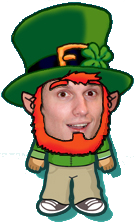
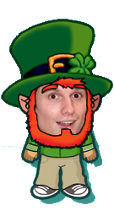
Changed the system for choosing a specific (or random) person, with thumbnails.

diff --git a/js/holder.min.js b/js/holder.min.js
@@ -1,0 +1,12 @@
+/*!
+
+Holder - client side image placeholders
+Version 2.5.2+2mg3u
+© 2015 Ivan Malopinsky - http://imsky.co
+
+Site:     http://holderjs.com
+Issues:   https://github.com/imsky/holder/issues
+License:  http://opensource.org/licenses/MIT
+
+*/
[1 lines of base64/hex data omitted]

diff --git a/functions-admin.inc.php b/functions-admin.inc.php
@@ -199,7 +199,7 @@ function make_status_change_menu() {
 
 // Gets a list of figures with 'fig' or 'special' in the name.
 // DONE
-function get_special_figure_list() {
+/*function get_special_figure_list() {
 
     global $CFG;
 
@@ -233,7 +233,74 @@ function get_special_figure_list() {
         return '<p class="error">Couldn\'t find any images.</p>' . "\n";
     }
 
+}*/
+
+
+// Gets a list of figures with 'aaa', 'fig' or 'special' in the name.
+// TODO: This is better than it was, but it needs fairly serious refactoring for reasons of sanity.
+function get_figures_thumbnails() {
+
+  global $CFG;
+
+  // Scan the folder for appropriate images; store filenames and make a user-friendly name also.
+  $figures = array(
+    'filename'  => array(),
+    'name'      => array()
+  );
+
+  if ( $fh = opendir( $CFG['dir']['ppl'] ) ) {
+    while ( false !== ( $entry = readdir( $fh ) ) ) {
+      if ( $entry != '.' && $entry != '..' && ( substr( $entry, 0, 3 ) == 'aaa' || substr( $entry, 0, 3 ) == 'fig' || substr( $entry, 0, 7 ) == 'special' ) ) {
+        $figures['filename'][] = $entry;
+      }
+    }
+    closedir( $fh );
+  }
+
+  if ( $figures ) {
+
+    sort( $figures['filename'] );
+
+    for( $j = 0; $j < count( $figures['filename'] ); $j++ ) {
+      $tmp = $figures['filename'][$j];
+      $tmp = ucfirst( str_replace( array( 'aaa-', 'fig-', 'special-', '.jpg', '.jpeg', '.png' ), '', $tmp ) );
+      $tmp = ucfirst( str_replace( array( '-alt' ), ' 2', $tmp ) );
+      $figures['name'][$j] = $tmp;
+    }
+
+    $build = '';
+    for( $j = 0; $j < count( $figures['filename'] ); $j++ ) {
+
+      $build .= '      <div class="col-xs-4 col-md-2">' . "\n";
+      $build .= '        <div class="thumbnail">' . "\n";
+      //$build .= '          <img data-src="holder.js/100x100">' . "\n";
+      $build .= '          <div class="caption">' . "\n";
+      $build .= '            <h4 class="text-center">' . $figures['name'][$j] . '</h4>' . "\n";
+      $build .= '          </div>' . "\n";
+      $build .= '          <img class="img-thumbnail" src="' . $CFG['dir']['ppl'] . $figures['filename'][$j] . '" >' . "\n";
+      $build .= '          <div class="caption">' . "\n";
+      
+      if ( $figures['filename'][$j] == get_config( 'specific_fig' ) ) {
+        $build .= '            <p><a class="btn btn-success btn-block" disabled="disabled" role="button">Chosen!</a></p>' . "\n";
+      } else {
+        $build .= '            <p><a href="' . $_SERVER["PHP_SELF"] . '?action=figure_change&figure_filename=' . $figures['filename'][$j] . '&figure_name=' . $figures['name'][$j] . '" class="btn btn-info btn-block" role="button">Select ' . $figures['name'][$j] . '</a></p>' . "\n";
+      }
+
+      $build .= '          </div>' . "\n";
+      $build .= '        </div>' . "\n";
+      $build .= '      </div>' . "\n";
+
+    }
+
+    return $build;
+
+  } else {
+    adminlog( 'img|err|' . $CFG['dir']['ppl'] );
+    return '<div class="col-md-12"><p class="error">Couldn\'t find any images.</p></div>';
+  }
+
 }
+
 
 
 

diff --git a/manage.php b/manage.php
@@ -124,6 +124,17 @@ if ( isset( $_GET['action'] ) && $_GET['action'] == 'rssfeed_preset' && isset( $
   exit(0);
 }
 
+// Updating the random / specific figure.
+if ( isset( $_GET['action'] ) && $_GET['action'] == 'figure_change' && isset( $_GET['figure_filename'] ) && !empty( $_GET['figure_filename'] ) && isset( $_GET['figure_name'] ) && !empty( $_GET['figure_name'] ) ) {
+  if ( set_config( 'specific_fig', $_GET['figure_filename'] ) ) {
+    $_SESSION['alerts'] = array( 'success' => 'Figure &ldquo;' . $_GET['figure_name'] . '&rdquo; was updated successfully.' );
+  } else {
+    $_SESSION['alerts'] = array( 'danger' => 'Figure &ldquo;' . $_GET['figure_name'] . '&rdquo; (' . $_GET['figure_filename'] . ') was not updated for some reason.' );
+  }
+  header( 'location: ' . $_SERVER["PHP_SELF"] );
+  exit(0);
+}
+
 // Logging out.
 if ( isset( $_GET['action'] ) && $_GET['action'] == 'logout' ) {
   logout();
@@ -402,9 +413,26 @@ echo showstopper_page_warning();
       </div>
     </div>
 
+    <!-- Row four. -->
+    <div class="row">
+      <div class="col-md-12">
+        <h2>Specific Person</h2>
+        <p>Click on the person whose face you want to show, or choose 'random' for a random person each time.</p>
+      </div>
+    </div>
+    <div class="row">
+<?php
 
+echo get_figures_thumbnails();
 
+?>
+    </div>
 
+    <div class="row">
+      <div class="col-md-12">
+        <hr>
+      </div>
+    </div>
 
 
 
@@ -519,7 +547,7 @@ echo showstopper_page_warning();
                     <form action="specific_fig_edit.php" method="get">
                         <select name="figure">
                             <?php
-                            get_special_figure_list();
+                            //get_special_figure_list();
                             ?>
                         </select>
                         <input type="submit" value="Set">
@@ -536,13 +564,14 @@ echo showstopper_page_warning();
 
   <script type="text/javascript" src="js/jquery.word-and-character-counter.min.js"></script>
 
+  <script type="text/javascript" src="js/holder.min.js"></script>
+
   <!-- script type="text/javascript" src="jquery.jgrowl.js"></script -->
 
   <script type="text/javascript">
   $(document).ready(function(){
 
     window.setTimeout(function() { 
-      //$(".alert-success").alert('close'); 
       $(".alert-success").fadeTo(800, 0).slideUp(500);
     }, 5000);
 

diff --git a/functions.inc.php b/functions.inc.php
@@ -387,7 +387,7 @@ function get_figure() {
 
     $img = get_config( 'specific_fig' );
 
-    if ( $img == 'no' ) {
+    if ( $img == 'aaa-random.png' ) {
         return get_rnd_figure();
 
     } else {
@@ -423,6 +423,7 @@ function get_rnd_figure() {
     if ( $figures ) {
 
         asort( $figures );
+
         $figure_num = rand( 0, count( $figures ) - 1 );
         $file_loc = $CFG['dir']['ppl'] . $figures[ $figure_num ];
 
